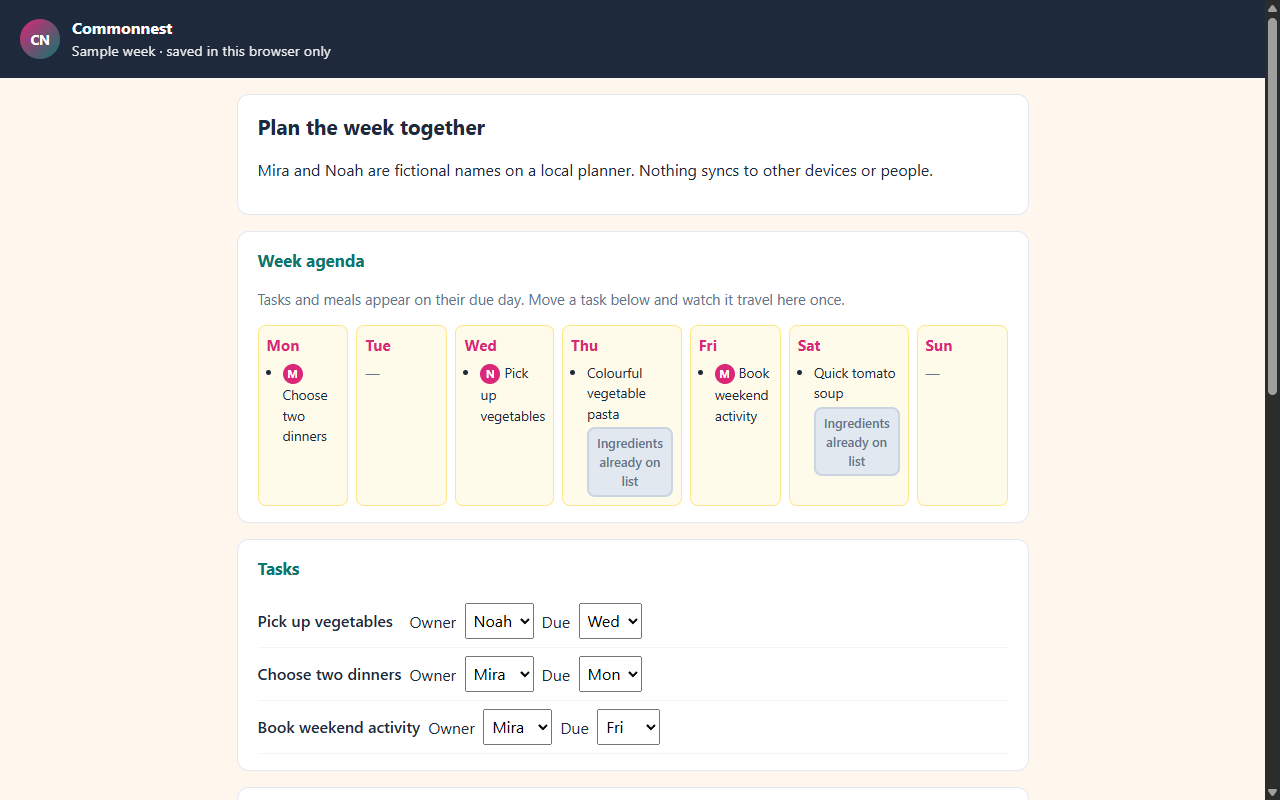
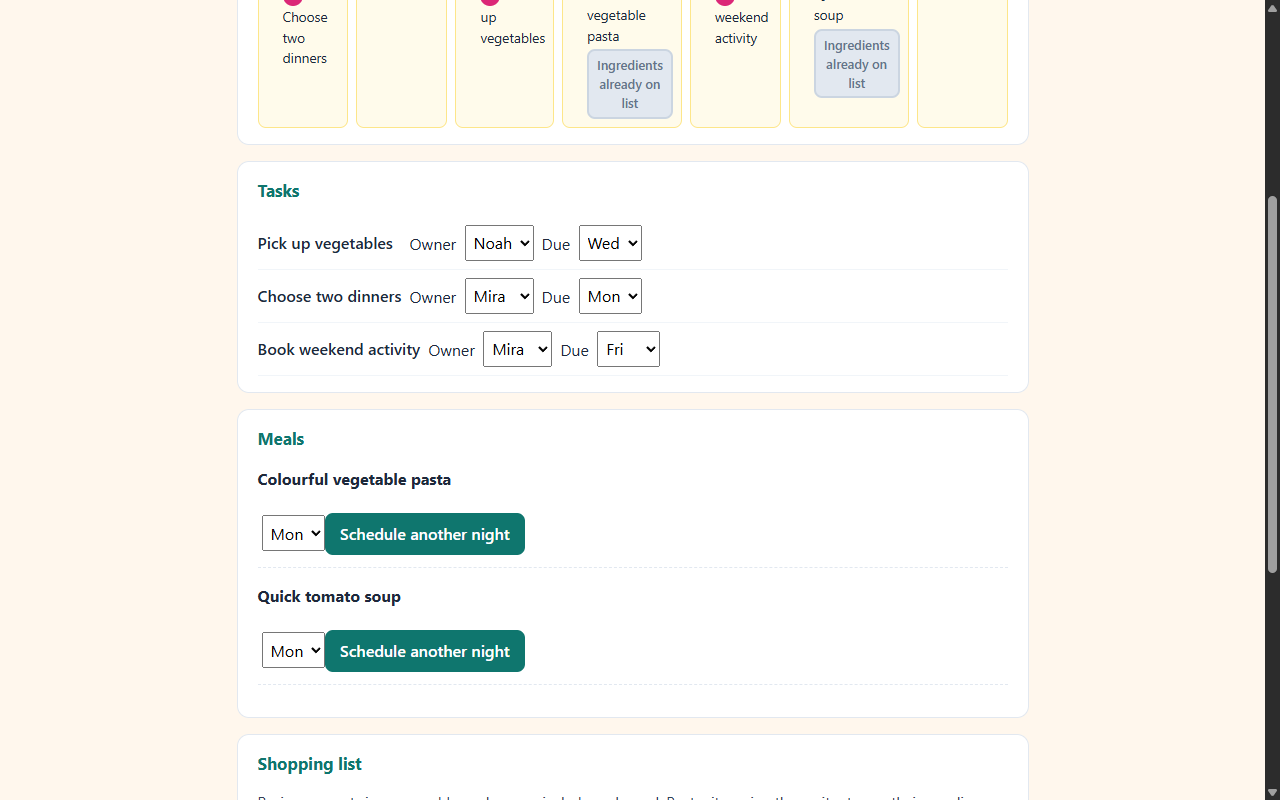
Address Grok review: evidence cleanup, sanitize, storage verify.

diff --git a/app.js b/app.js
@@ -4,6 +4,7 @@ import {
   OWNERS,
   RECIPES,
   seedState,
+  sanitizeParsedState,
   shoppingWithPantry,
   scheduleMeal,
   addIngredientsForMeal,
@@ -16,6 +17,8 @@ const $ = (sel, root = document) => root.querySelector(sel);
 
 let state = seedState();
 let storageOk = true;
+/** @type {{ kind: string, label?: string, mealId?: string, recipeId?: string } | null} */
+let focusAfterRender = null;
 
 function storageAvailable() {
   try {
@@ -27,20 +30,13 @@ function storageAvailable() {
 }
 
 function loadState() {
-  const raw = localStorage.getItem(STORAGE_KEY);
-  if (!raw) return seedState();
-  const parsed = JSON.parse(raw);
-  const base = seedState();
-  return {
-    ...base,
-    ...parsed,
-    tasks: Array.isArray(parsed.tasks) ? parsed.tasks : base.tasks,
-    mealInstances: Array.isArray(parsed.mealInstances) ? parsed.mealInstances : base.mealInstances,
-    ingredientsCountedIds: Array.isArray(parsed.ingredientsCountedIds)
-      ? parsed.ingredientsCountedIds
-      : base.ingredientsCountedIds,
-    shopping: parsed.shopping && typeof parsed.shopping === "object" ? parsed.shopping : {},
-  };
+  try {
+    const raw = localStorage.getItem(STORAGE_KEY);
+    if (!raw) return seedState();
+    return sanitizeParsedState(JSON.parse(raw));
+  } catch {
+    return seedState();
+  }
 }
 
 function saveState() {
@@ -50,6 +46,26 @@ function saveState() {
   } catch {
     storageOk = false;
     $("#storageBanner").hidden = false;
+  }
+}
+
+function applyFocusReturn() {
+  if (!focusAfterRender) return;
+  const target = focusAfterRender;
+  focusAfterRender = null;
+  if (target.kind === "taskDay" && target.label) {
+    const sel = document.querySelector(`#taskList select[aria-label="${CSS.escape(target.label)}"]`);
+    sel?.focus();
+    sel?.scrollIntoView({ block: "nearest" });
+  } else if (target.kind === "taskOwner" && target.label) {
+    const sel = document.querySelector(`#taskList select[aria-label="${CSS.escape(target.label)}"]`);
+    sel?.focus();
+  } else if (target.kind === "schedule" && target.recipeId) {
+    const wrap = document.querySelector(`[data-schedule-recipe="${target.recipeId}"] button`);
+    wrap?.focus();
+  } else if (target.kind === "mealAdd" && target.mealId) {
+    const btn = document.querySelector(`button[data-meal-id="${CSS.escape(target.mealId)}"]`);
+    btn?.focus();
   }
 }
 
@@ -73,7 +89,11 @@ function renderWeek() {
       tUl.className = "agenda-tasks";
       for (const t of tasks) {
         const li = document.createElement("li");
-        li.innerHTML = `<span class="owner-badge" title="${t.owner}">${ownerInitial(t.owner)}</span> ${t.title}`;
+        const badge = document.createElement("span");
+        badge.className = "owner-badge";
+        badge.title = t.owner;
+        badge.textContent = ownerInitial(t.owner);
+        li.append(badge, document.createTextNode(` ${t.title}`));
         tUl.appendChild(li);
       }
       col.appendChild(tUl);
@@ -86,18 +106,19 @@ function renderWeek() {
       for (const m of meals) {
         const li = document.createElement("li");
         const recipe = RECIPES[m.recipeId];
-        li.textContent = recipe?.name || m.recipeId;
+        li.appendChild(document.createTextNode(recipe?.name || m.recipeId));
         const addBtn = document.createElement("button");
         addBtn.type = "button";
         addBtn.className = "btn-inline";
+        addBtn.dataset.mealId = m.id;
         const counted = state.ingredientsCountedIds.includes(m.id);
         addBtn.textContent = counted ? "Ingredients already on list" : "Add ingredients to list";
         addBtn.disabled = counted;
         addBtn.addEventListener("click", () => {
           state = addIngredientsForMeal(state, m.id);
           saveState();
+          focusAfterRender = { kind: "mealAdd", mealId: m.id };
           renderAll();
-          addBtn.focus();
         });
         li.appendChild(document.createElement("br"));
         li.appendChild(addBtn);
@@ -128,8 +149,9 @@ function renderTasks() {
     title.textContent = task.title;
     const ownerLabel = document.createElement("label");
     ownerLabel.textContent = "Owner ";
+    const ownerAria = `Owner for ${task.title}`;
     const ownerSel = document.createElement("select");
-    ownerSel.setAttribute("aria-label", `Owner for ${task.title}`);
+    ownerSel.setAttribute("aria-label", ownerAria);
     for (const o of OWNERS) {
       const opt = document.createElement("option");
       opt.value = o;
@@ -140,13 +162,15 @@ function renderTasks() {
     ownerSel.addEventListener("change", () => {
       state = updateTask(state, task.id, { owner: ownerSel.value });
       saveState();
+      focusAfterRender = { kind: "taskOwner", label: ownerAria };
       renderAll();
     });
     ownerLabel.appendChild(ownerSel);
     const dayLabel = document.createElement("label");
     dayLabel.textContent = " Due ";
+    const dayAria = `Due day for ${task.title}`;
     const daySel = document.createElement("select");
-    daySel.setAttribute("aria-label", `Due day for ${task.title}`);
+    daySel.setAttribute("aria-label", dayAria);
     for (const d of DAYS) {
       const opt = document.createElement("option");
       opt.value = d;
@@ -157,8 +181,8 @@ function renderTasks() {
     daySel.addEventListener("change", () => {
       state = updateTask(state, task.id, { day: daySel.value });
       saveState();
+      focusAfterRender = { kind: "taskDay", label: dayAria };
       renderAll();
-      daySel.focus();
     });
     dayLabel.appendChild(daySel);
     li.append(title, ownerLabel, dayLabel);
@@ -173,8 +197,11 @@ function renderMealsControls() {
     const recipe = RECIPES[rid];
     const wrap = document.createElement("div");
     wrap.className = "meal-add";
+    wrap.dataset.scheduleRecipe = rid;
     const title = document.createElement("p");
-    title.innerHTML = `<strong>${recipe.name}</strong>`;
+    const strong = document.createElement("strong");
+    strong.textContent = recipe.name;
+    title.appendChild(strong);
     wrap.appendChild(title);
     const daySel = document.createElement("select");
     daySel.setAttribute("aria-label", `Day to schedule ${recipe.name}`);
@@ -190,8 +217,8 @@ function renderMealsControls() {
     btn.addEventListener("click", () => {
       state = scheduleMeal(state, rid, daySel.value);
       saveState();
+      focusAfterRender = { kind: "schedule", recipeId: rid };
       renderAll();
-      btn.focus();
     });
     wrap.append(daySel, btn);
     host.appendChild(wrap);
@@ -252,6 +279,7 @@ function renderAll() {
   renderTasks();
   renderMealsControls();
   renderShopping();
+  applyFocusReturn();
 }
 
 function bindReset() {
@@ -263,16 +291,23 @@ function bindReset() {
       /* ignore */
     }
     state = seedState();
-    storageOk = true;
-    $("#storageBanner").hidden = true;
+    storageOk = storageAvailable();
+    focusAfterRender = null;
+    $("#storageBanner").hidden = storageOk;
     renderAll();
   });
 }
 
 document.addEventListener("DOMContentLoaded", () => {
-  storageOk = storageAvailable();
-  state = storageOk ? loadState() : seedState();
-  if (!storageOk) $("#storageBanner").hidden = false;
+  if (document.documentElement.dataset.storageUnavailable === "1") {
+    storageOk = false;
+    state = seedState();
+    $("#storageBanner").hidden = false;
+  } else {
+    storageOk = storageAvailable();
+    state = storageOk ? loadState() : seedState();
+    if (!storageOk) $("#storageBanner").hidden = false;
+  }
   renderAll();
   bindReset();
 });

diff --git a/logic.js b/logic.js
@@ -177,4 +177,62 @@ export function emptyState() {
   return seedState();
 }
 
+export function sanitizeParsedState(raw) {
+  const base = seedState();
+  if (!raw || typeof raw !== "object") return base;
+  try {
+    let tasks = base.tasks;
+    if (Array.isArray(raw.tasks)) {
+      const parsed = raw.tasks
+        .map((t) => {
+          if (!t || typeof t !== "object" || typeof t.id !== "string") return null;
+          const seed = base.tasks.find((x) => x.id === t.id);
+          const title = typeof t.title === "string" ? t.title : seed?.title;
+          if (!title) return null;
+          const owner = OWNERS.includes(t.owner) ? t.owner : seed?.owner ?? OWNERS[0];
+          const day = DAYS.includes(t.day) ? t.day : seed?.day ?? "Mon";
+          return { id: t.id, title, owner, day };
+        })
+        .filter(Boolean);
+      if (parsed.length >= 1) tasks = parsed;
+    }
+
+    let mealInstances = base.mealInstances;
+    if (Array.isArray(raw.mealInstances)) {
+      const parsed = raw.mealInstances
+        .map((m) => {
+          if (!m || typeof m !== "object" || typeof m.id !== "string") return null;
+          if (!RECIPES[m.recipeId]) return null;
+          if (!DAYS.includes(m.day)) return null;
+          return { id: m.id, recipeId: m.recipeId, day: m.day };
+        })
+        .filter(Boolean);
+      if (parsed.length >= 1) mealInstances = parsed;
+    }
+
+    let ingredientsCountedIds = base.ingredientsCountedIds;
+    if (Array.isArray(raw.ingredientsCountedIds)) {
+      ingredientsCountedIds = raw.ingredientsCountedIds.filter(
+        (id) => typeof id === "string" && mealInstances.some((m) => m.id === id),
+      );
+    }
+
+    const shopping =
+      raw.shopping && typeof raw.shopping === "object" && !Array.isArray(raw.shopping)
+        ? raw.shopping
+        : {};
+
+    return {
+      ...base,
+      tasks,
+      mealInstances,
+      ingredientsCountedIds,
+      shopping,
+      mealFeedback: typeof raw.mealFeedback === "string" ? raw.mealFeedback : null,
+    };
+  } catch {
+    return base;
+  }
+}
+
 export const PAGES_PATH_PREFIX = "/commonnest-showcase";

diff --git a/index.html b/index.html
@@ -50,6 +50,13 @@
 
     <p class="actions"><button type="button" id="resetBtn" class="btn-secondary">Reset this week</button></p>
   </main>
+  <script>
+    try {
+      localStorage.getItem("commonnest-independent-probe");
+    } catch (e) {
+      document.documentElement.dataset.storageUnavailable = "1";
+    }
+  </script>
   <script type="module" src="app.js"></script>
 </body>
 </html>

diff --git a/styles.css b/styles.css
@@ -65,7 +65,7 @@ body {
 h1 { font-size: 1.3rem; margin-top: 0; }
 h2 { font-size: 1.05rem; margin-top: 0; color: var(--teal); }
 h3 { font-size: 0.95rem; margin: 0 0 0.35rem; color: var(--raspberry); }
-.muted { color: var(--muted); font-size: 0.92rem; }
+.muted { color: #334155; font-size: 0.92rem; }
 .feedback { color: var(--teal); font-weight: 600; }
 
 .week-grid {
